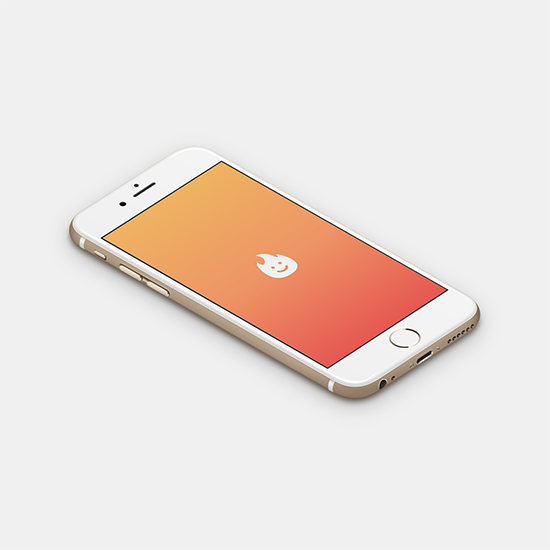
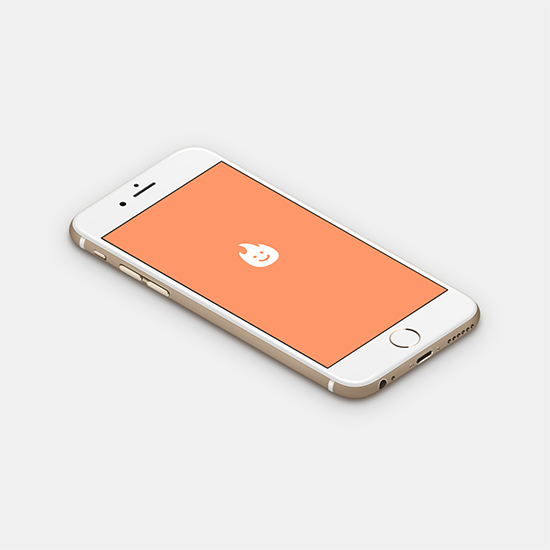
1

Changed region(s): [[0.4636, 0.4327, 0.8036, 0.68], [0.1855, 0.2782, 0.4327, 0.4636], [0.4327, 0.4327, 0.5564, 0.5255]]

diff --git a/index.html b/index.html
@@ -127,7 +127,7 @@
 					<div class="col-12 col-md-6 col-lg-4 portfolio-item category-3 category-4 category-2">
 					 <div class="portfolio-box">
 						 <div class="portfolio-img">
-							 <img src="images/strike/strike-mobile-application-alt3.png" alt="Strike"><!-- Image source -->
+							 <img src="images/strike/strike-mobile-application.png" alt="Strike"><!-- Image source -->
 						 </div>
 						 <a href="strike.html"></a><!-- Portfolio Single link -->
 						 <div class="portfolio-title">
